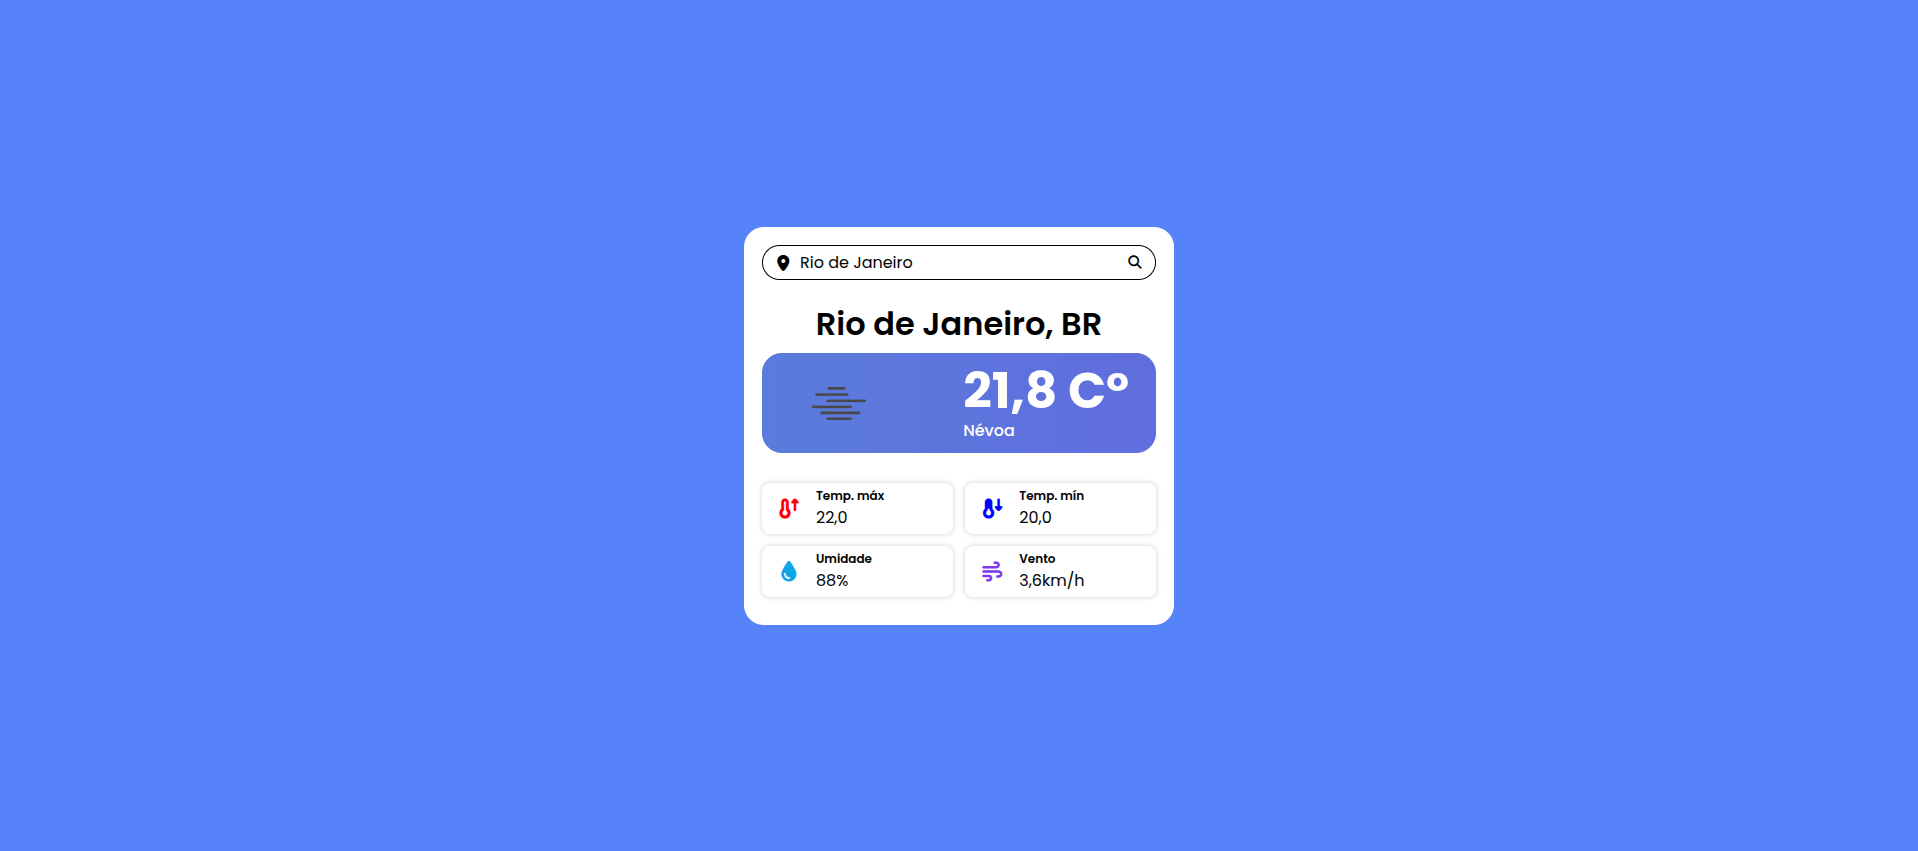
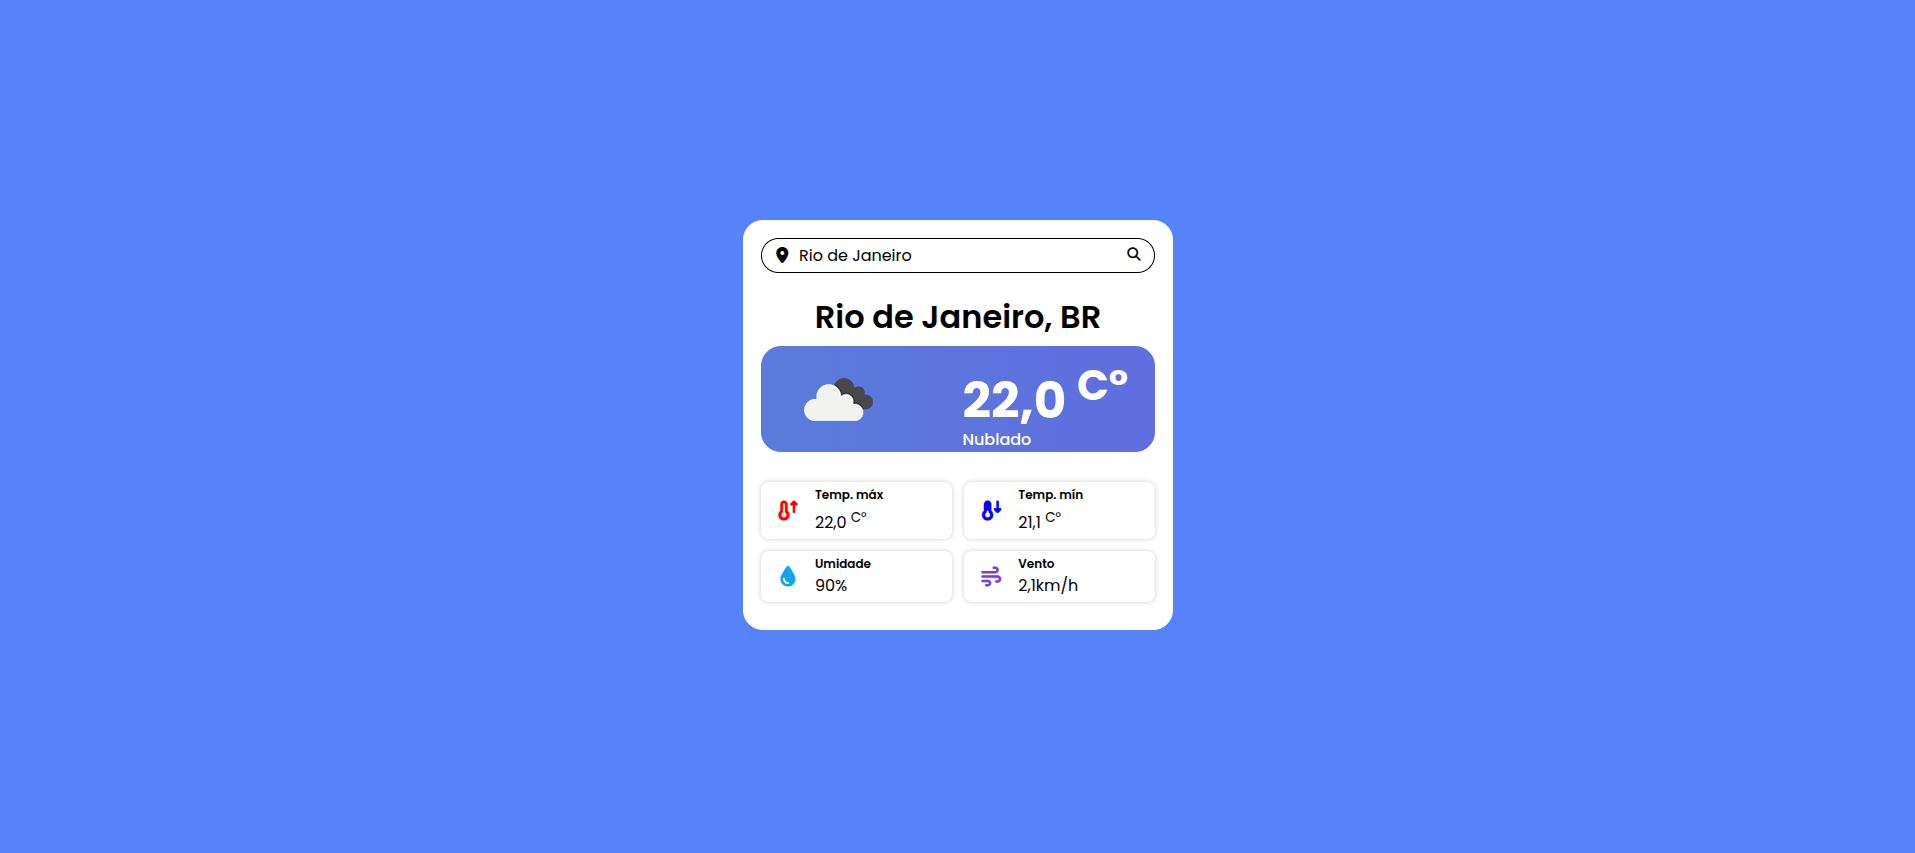
update

diff --git a/weather.js b/weather.js
@@ -35,16 +35,16 @@ async function buscar() {
         document.getElementById('city').innerHTML = `${tempo.name}, ${tempo.sys.country}`
         
         // Exibe a temperatura atual formatada
-        document.getElementById('temp_value').innerHTML = `${tempo.main.temp.toFixed(1).toString().replace('.', ',')} C°`
+        document.getElementById('temp_value').innerHTML = `${tempo.main.temp.toFixed(1).toString().replace('.', ',')} <sup>C°<sup>`
         
         // Exibe a descrição do clima (ex: nublado, ensolarado)
         document.getElementById('temp_description').innerHTML = `${tempo.weather[0].description}`
 
          // Exibe a temperatura máxima
-        document.getElementById('temp_max').innerHTML = `${tempo.main.temp_max.toFixed(1).toString().replace('.', ',')}`
+        document.getElementById('temp_max').innerHTML = `${tempo.main.temp_max.toFixed(1).toString().replace('.', ',')} <sup>C°<sup>`
 
         // Exibe a temperatura mínima
-        document.getElementById('temp_min').innerHTML = `${tempo.main.temp_min.toFixed(1).toString().replace('.', ',')}`
+        document.getElementById('temp_min').innerHTML = `${tempo.main.temp_min.toFixed(1).toString().replace('.', ',')} <sup>C°<sup>`
 
         // Define o ícone do clima com base no código retornado pela API
         document.getElementById('temp_icon').setAttribute('src', `https://openweathermap.org/img/wn/${tempo.weather[0].icon}@2x.png`)
